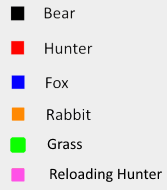
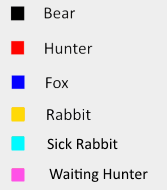
Balancing alles

diff --git a/VossenEnKonijnen/src/Rabbit.java b/VossenEnKonijnen/src/Rabbit.java
@@ -19,15 +19,15 @@ public class Rabbit extends Animal
     // The age to which a rabbit can live.
     private static final int MAX_AGE = 40;
     // The likelihood of a rabbit breeding.
-    private double breedingProbabilty = 0.12;
+    private double breedingProbabilty = 0.8;
     // The maximum number of births.
     private static final int MAX_LITTER_SIZE = 4;
     // A shared random number generator to control breeding.
     private static final Random rand = Randomizer.getRandom();
     private final double INFECTION_CHANCE = 0.9;
     private boolean ziek;
-    private final double FIRST_INFECTED_CHANCE = 0.01;
-    private final int FIRST_INFECTED = 5;
+    private final int FIRST_INFECTED_CHANCE = 10;
+    private final int FIRST_INFECTED = 500;
     private int timeSick = 0;
     private final int MAX_TIME_SICK = 5;    
     private int counter;
@@ -51,11 +51,14 @@ public class Rabbit extends Animal
         super(field, location);
     	color = Color.orange;
     	OFFICIAL_COLOR = Color.orange;
-        setAge(0);
+        
         if(randomAge) {
         	setAge(rand.nextInt(MAX_AGE));
+        } else {
+        	setAge(0);
         }
-        int random = (rand.nextInt(100) + 1) / 100;
+        Random randomGenerator = new Random();
+        int random = randomGenerator.nextInt(100);
     	if( random <= FIRST_INFECTED_CHANCE && numberInfected < FIRST_INFECTED)
     	{
     		setZiekteGen(true);
@@ -69,7 +72,13 @@ public class Rabbit extends Animal
      */
     public void act(List<Actor> newRabbits)
     {
-    	if (timeSick < MAX_TIME_SICK) {
+    	if (getZiekteGen()){ 
+	    	if (timeSick < MAX_TIME_SICK) {
+	            timeSick++;
+	    	} else {
+	    		setDead();
+	    	}
+    	}
 	        incrementAge();
 	        if(isAlive()) {
 	        	checkFood();
@@ -77,11 +86,17 @@ public class Rabbit extends Animal
 	        		setBreedingProbabilty(LESS_BREEDING_PROBABILITY * this.breedingProbabilty);
 	        		counter = 0;
 	        	}
-	        	neighborInfected();
-	            giveBirth(newRabbits);            
+	        	if (neighborInfected()) {
+		        	if (ziekteGen()) {
+	            		setZiekteGen(true);
+	             	}
+	        	}
+	        	if (!getZiekteGen()) {
+	        		giveBirth(newRabbits);   
+	        	}
 	            // Move towards a source of food if found.
 	            Location newLocation = getField().freeAdjacentLocation(getLocation());
-	            timeSick++;
+
 	            if(newLocation != null) {
 	                setLocation(newLocation);
 	            }
@@ -90,9 +105,6 @@ public class Rabbit extends Animal
 	                setDead();
 	            }
 	        }
-    	} else {
-    		setDead();
-    	}
     }
     
     /**
@@ -136,7 +148,6 @@ public class Rabbit extends Animal
     	int random = (rand.nextInt(100) + 1) / 100;
     	if( random <= INFECTION_CHANCE)
     	{
-    		setZiekteGen(true);
     		return true;
     	}
     	return false;
@@ -154,8 +165,7 @@ public class Rabbit extends Animal
              if(animal instanceof Rabbit) {
                  Rabbit rabbit = (Rabbit) animal;
                  if(rabbit.getZiekteGen()) {
-                 	this.ziekteGen();
-                 	
+                 	return true;
                  }
              }
          }

diff --git a/VossenEnKonijnen/src/Fox.java b/VossenEnKonijnen/src/Fox.java
@@ -19,12 +19,12 @@ public class Fox extends Animal
     // The age to which a fox can live.
     private static final int MAX_AGE = 150;
     // The likelihood of a fox breeding.
-    private static final double BREEDING_PROBABILITY = 0.08;
+    private static final double BREEDING_PROBABILITY = 0.35;
     // The maximum number of births.
     private static final int MAX_LITTER_SIZE = 2;
     // The food value of a single rabbit. In effect, this is the
     // number of steps a fox can go before it has to eat again.
-    private static final int RABBIT_FOOD_VALUE = 9;
+    private static final int RABBIT_FOOD_VALUE = 10;
     // A shared random number generator to control breeding.
     private static final Random rand = Randomizer.getRandom();
     
@@ -43,6 +43,7 @@ public class Fox extends Animal
     {
         super(field, location);
         color = Color.blue;
+        OFFICIAL_COLOR = Color.blue;
         if(randomAge) {
         	setAge(rand.nextInt(MAX_AGE));
             foodLevel = rand.nextInt(RABBIT_FOOD_VALUE);
@@ -50,6 +51,25 @@ public class Fox extends Animal
         else {
         	setAge(0);
             foodLevel = RABBIT_FOOD_VALUE;
+        }
+    }
+    
+    /**
+     * Check whether or not this rabbit is to give birth at this step.
+     * New births will be made into free adjacent locations.
+     * @param newRabbits A list to return newly born rabbits.
+     */
+    public void giveBirth(List<Actor> newFoxes)
+    {
+        // New rabbits are born into adjacent locations.
+        // Get a list of adjacent free locations.
+        Field field = getField();
+        List<Location> free = field.getFreeAdjacentLocations(getLocation());
+        int births = breed();
+        for(int b = 0; b < births && free.size() > 0; b++) {
+            Location loc = free.remove(0);
+            Fox young = new Fox(false, field, loc);
+            newFoxes.add(young);
         }
     }
     
@@ -118,6 +138,15 @@ public class Fox extends Animal
             }
         }
         return null;
+    }
+    
+    public Color getColor() {
+    	return color;
+    }
+    
+    public Color getOfficialColor()
+    {
+    	return OFFICIAL_COLOR;
     }
     
 	@Override

diff --git a/VossenEnKonijnen/src/Bear.java b/VossenEnKonijnen/src/Bear.java
@@ -19,7 +19,7 @@ public class Bear extends Animal
     // The age to which a Bear can live.
     private static final int MAX_AGE = 40;
     // The likelihood of a Bear breeding.
-    private static final double BREEDING_PROBABILITY = 0.02;
+    private static final double BREEDING_PROBABILITY = 0.04;
     // The maximum number of births.
     private static final int MAX_LITTER_SIZE = 4;
     // The food value of a single rabbit. In effect, this is the
@@ -43,6 +43,7 @@ public class Bear extends Animal
     {
         super(field, location);
         color = Color.black;
+        OFFICIAL_COLOR = Color.black;
         if(randomAge) {
             setAge(rand.nextInt(MAX_AGE));
             foodLevel = rand.nextInt(FOOD_VALUE);
@@ -50,6 +51,25 @@ public class Bear extends Animal
         else {
             setAge(0);
             foodLevel = FOOD_VALUE;
+        }
+    }
+    
+    /**
+     * Check whether or not this rabbit is to give birth at this step.
+     * New births will be made into free adjacent locations.
+     * @param newRabbits A list to return newly born rabbits.
+     */
+    public void giveBirth(List<Actor> newBears)
+    {
+        // New rabbits are born into adjacent locations.
+        // Get a list of adjacent free locations.
+        Field field = getField();
+        List<Location> free = field.getFreeAdjacentLocations(getLocation());
+        int births = breed();
+        for(int b = 0; b < births && free.size() > 0; b++) {
+            Location loc = free.remove(0);
+            Bear young = new Bear(false, field, loc);
+            newBears.add(young);
         }
     }
     
@@ -130,6 +150,14 @@ public class Bear extends Animal
         return null;
     }
     
+    public Color getColor() {
+    	return color;
+    }
+    
+    public Color getOfficialColor()
+    {
+    	return OFFICIAL_COLOR;
+    }
 
 	@Override
 	protected int getBreedingAge() {

diff --git a/VossenEnKonijnen/src/SimulatorView.java b/VossenEnKonijnen/src/SimulatorView.java
@@ -54,10 +54,10 @@ public class SimulatorView extends JFrame
         stepLabel = new JLabel(STEP_PREFIX, JLabel.CENTER);
         population = new JLabel(POPULATION_PREFIX, JLabel.CENTER);
         
-        //logoImage = new ImageIcon(Simulator.class.getResource("/Legenda2.png"));
-        //legend = new JLabel(logoImage, JLabel.CENTER);
+        logoImage = new ImageIcon(Simulator.class.getResource("/Legenda3.png"));
+        legend = new JLabel(logoImage, JLabel.CENTER);
         
-        JPanel panelleft = new JPanel();
+        JPanel panelleft = new JPanel(new BorderLayout());
         step1 = new JButton("Step 1");
         step100 = new JButton("Step 100");
         step1000 = new JButton("Step 1000");
@@ -120,7 +120,7 @@ public class SimulatorView extends JFrame
         panelright.add(tabbedPane);
         
         panelleft.add(steps, BorderLayout.NORTH);
-        //panelleft.add(legend, BorderLayout.SOUTH);
+        panelleft.add(legend, BorderLayout.SOUTH);
         
         contents.add(panelright, BorderLayout.EAST);
         contents.add(panelleft, BorderLayout.WEST);

diff --git a/VossenEnKonijnen/src/Simulator.java b/VossenEnKonijnen/src/Simulator.java
@@ -140,6 +140,7 @@ public class Simulator
      */
     public void reset()
     {
+    	infected = 0;
         step = 0;
         actors.clear();
         populate();
